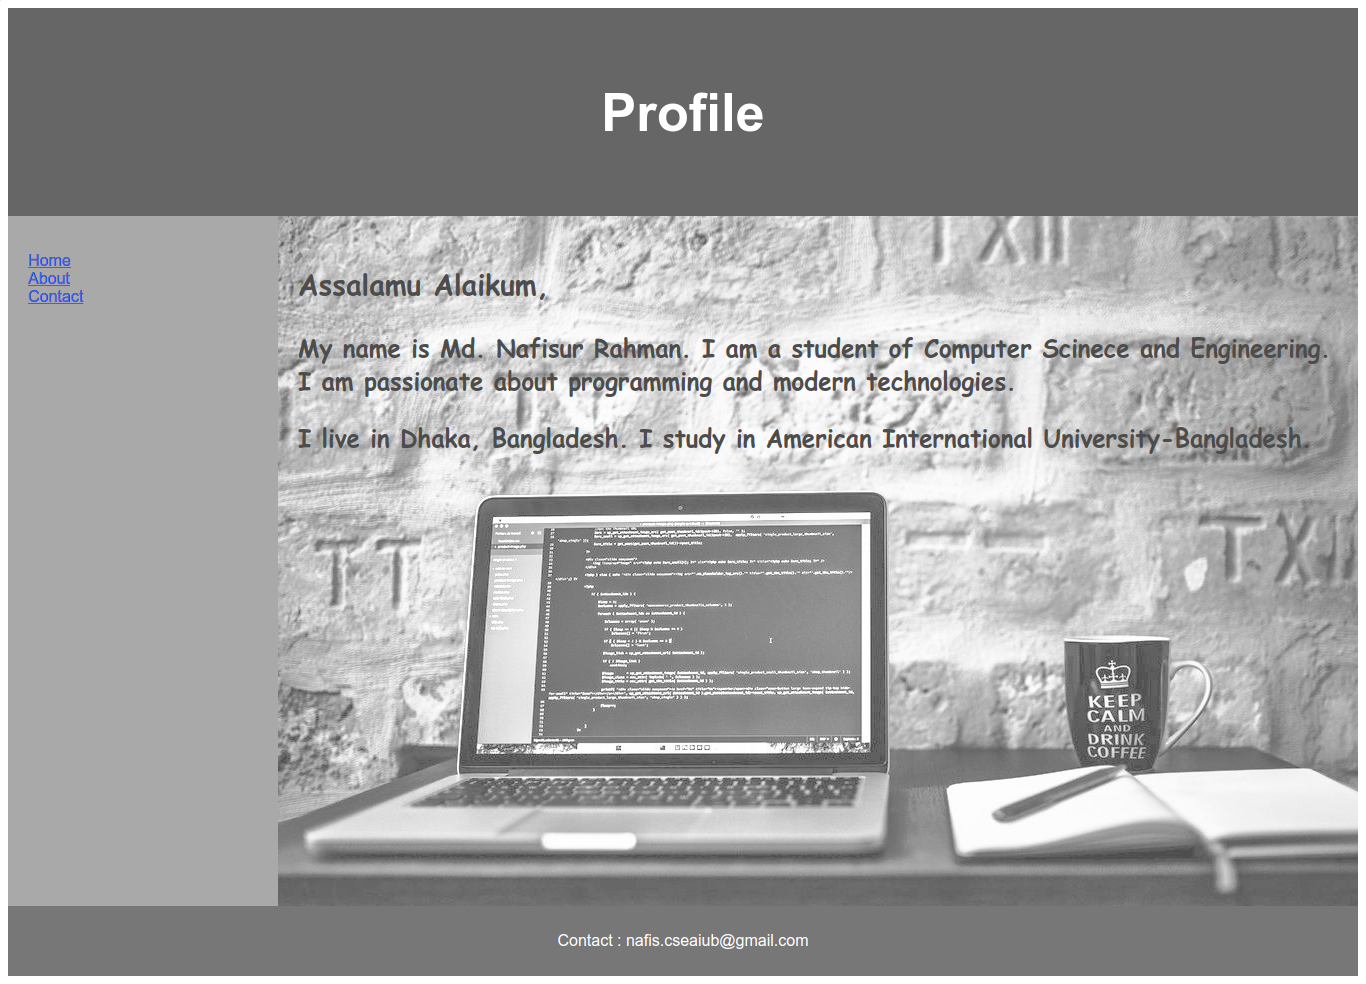
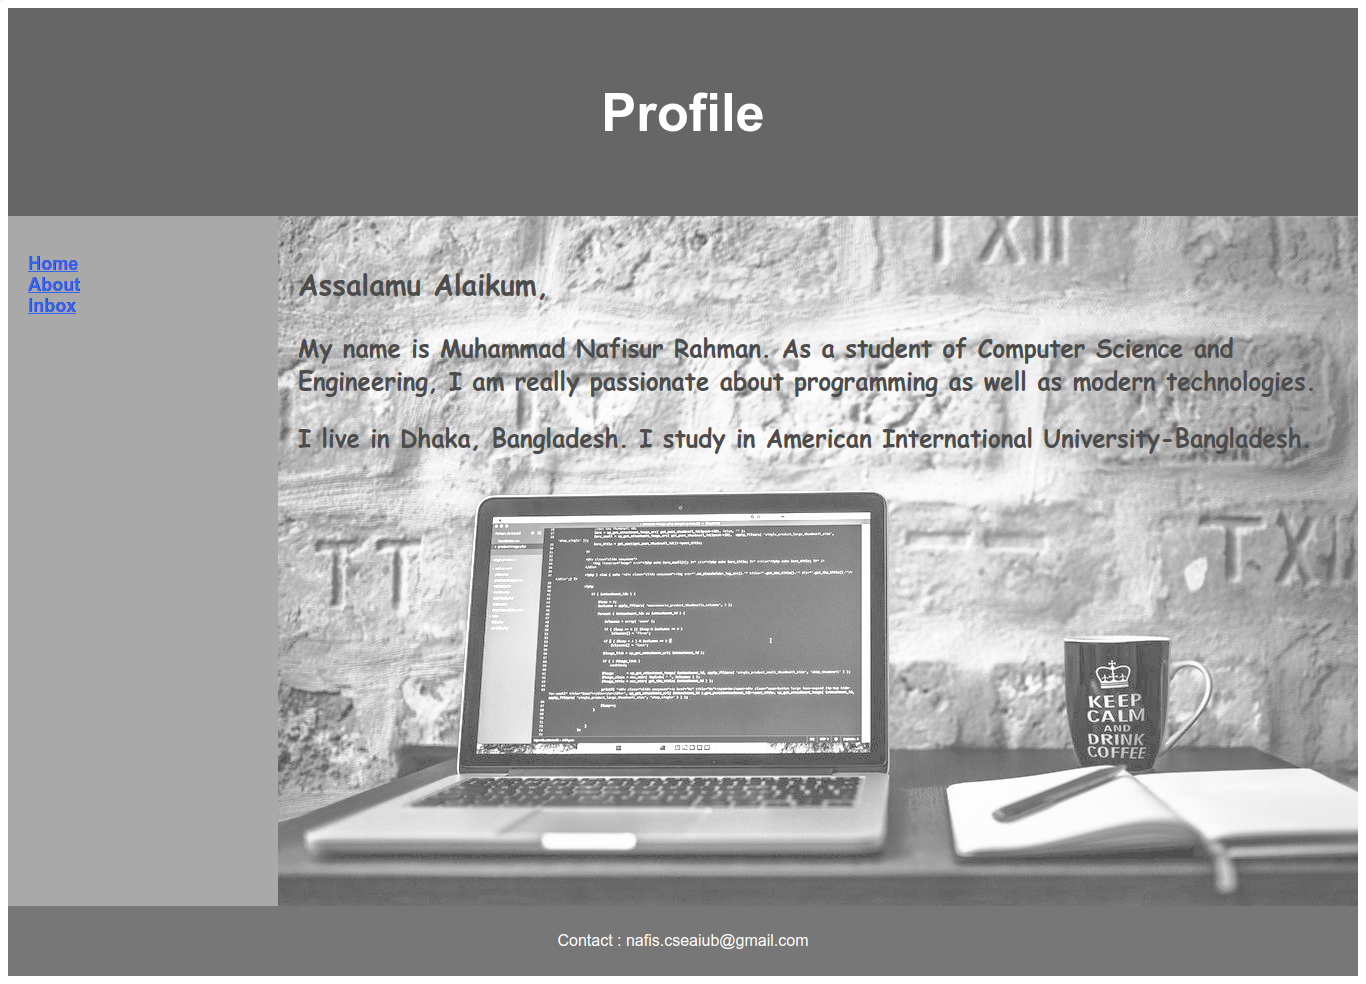
final commit hopefully :)

Changed region(s): [[0.2152, 0.3354, 0.9839, 0.3963], [0.0, 0.2439, 0.0615, 0.3354]]

diff --git a/Lab Task-1/2/my-profile.html b/Lab Task-1/2/my-profile.html
@@ -36,6 +36,8 @@
         nav ul {
             list-style-type: none;
             padding: 0;
+            font-size: large;
+            font-weight: bold;
         }
 
         article {
@@ -81,14 +83,16 @@
             <ul>
                 <li><a href="#">Home</a></li>
                 <li><a href="#">About</a></li>
-                <li><a href="#">Contact</a></li>
+                <li><a href="#">Inbox</a></li>
             </ul>
         </nav>
 
         <article>
             <h1>Assalamu Alaikum,</h1>
-            <p>My name is Md. Nafisur Rahman. I am a student of Computer Scinece and Engineering. I am passionate about
-                programming and
+            <p>My name is Muhammad Nafisur Rahman. As a student of Computer Science and Engineering, I am really
+                passionate
+                about
+                programming as well as
                 modern technologies.</p>
             <p> I live in Dhaka, Bangladesh. I study in American International University-Bangladesh. </p>
         </article>
